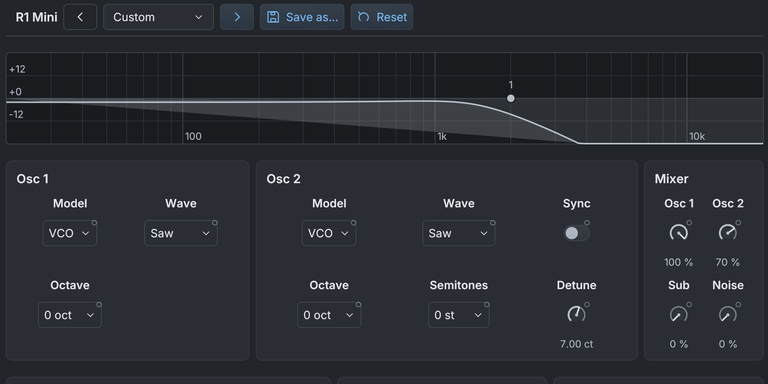
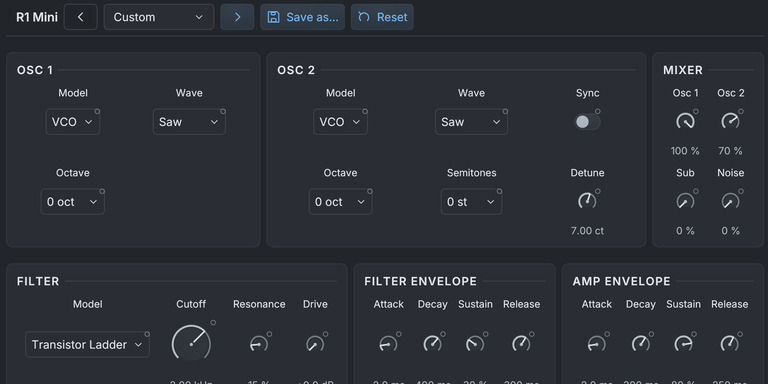
Drop the Mini's filter graph, raise the Filter's, even out dialog padding
The synth panel starts with its controls; the effect's response graph is
taller. A built-in device window is as wide as its panel plus the scroll
bar's gutter, so its right padding matches the left instead of doubling the
window margin.

Section titles and control captions now read as two levels: the shared
device_section_title sets the name in tracked capitals with a rule to the
card's edge, and control_caption names a control in smaller text. Both live
in daw-ui and the generic device_section uses the title too.

Claude-Session: https://claude.ai/code/session_01NMJbGpgEhY1BFioJy8Pb6P

diff --git a/crates/daw-ui/src/device_panel.rs b/crates/daw-ui/src/device_panel.rs
@@ -472,10 +472,59 @@ impl<'a> DevicePanel<'a> {
 pub fn device_section<R>(ui: &mut Ui, title: &str, contents: impl FnOnce(&mut Ui) -> R) -> R {
     ui.vertical(|ui| {
         ui.spacing_mut().item_spacing.y = tokens::SPACE_SM;
-        crate::text::label(ui, title);
+        device_section_title(ui, title);
         contents(ui)
     })
     .inner
+}
+
+/// The heading of a device section: its name in tracked capitals and a rule
+/// to the section's right edge. Distinct from the sentence-case
+/// [`control_caption`]s under it, so the panel's two levels never read alike.
+pub fn device_section_title(ui: &mut Ui, title: &str) -> Response {
+    let colors = crate::theme::palette(ui.ctx());
+    let mut job = egui::text::LayoutJob::default();
+    job.append(
+        &title.to_uppercase(),
+        0.0,
+        egui::TextFormat {
+            font_id: crate::text::TextRole::Label.font(),
+            color: colors.text,
+            extra_letter_spacing: 1.0,
+            ..Default::default()
+        },
+    );
+    let galley = ui.painter().layout_job(job);
+    let width = ui.available_width();
+    let (rect, response) =
+        ui.allocate_exact_size(vec2(width, galley.size().y), egui::Sense::hover());
+    let rule = rect.left() + galley.size().x + tokens::SPACE_SM;
+    ui.painter().galley(rect.left_top(), galley, colors.text);
+    if rule < rect.right() {
+        ui.painter().hline(
+            rule..=rect.right(),
+            rect.center().y,
+            egui::Stroke::new(tokens::BORDER_WIDTH, colors.line),
+        );
+    }
+    response.widget_info(|| egui::WidgetInfo::labeled(egui::WidgetType::Label, true, title));
+    response
+}
+
+/// The font of a [`control_caption`], for callers that size cells to it.
+pub fn control_caption_font() -> egui::FontId {
+    crate::text::TextRole::Note.font()
+}
+
+/// The name above one control of a device section: smaller and lighter than
+/// the section's title, in the text color so it stays readable.
+pub fn control_caption(ui: &mut Ui, text: &str) -> Response {
+    let color = crate::theme::palette(ui.ctx()).text;
+    ui.add(egui::Label::new(
+        egui::RichText::new(text)
+            .font(control_caption_font())
+            .color(color),
+    ))
 }
 
 /// How the host stores and edits parameter values for a generated panel.

diff --git a/crates/daw-devices-ui/src/lib.rs b/crates/daw-devices-ui/src/lib.rs
@@ -102,7 +102,7 @@ pub fn show(
         let weights: Vec<f32> = cards.iter().map(|card| card.weight).collect();
         daw_ui::flex_row(ui, &weights, |ui, index| {
             let card = &cards[index];
-            daw_ui::text::subtitle(ui, card.title);
+            daw_ui::device_section_title(ui, card.title);
             let available = ui.available_width();
             let lines = wrap(&card.lines, available);
             let columns = columns(&lines, available);
@@ -275,8 +275,7 @@ fn cell_width(ui: &Ui, spec: &ParamSpec, layout: &panels::Layout) -> f32 {
             .size()
             .x
     };
-    let label = daw_ui::text::TextRole::Label.font();
-    let caption = text(caption(spec, layout), label.clone());
+    let caption = text(caption(spec, layout), daw_ui::control_caption_font());
     let button = egui::TextStyle::Button.resolve(ui.style());
     let widest = |values: &mut dyn Iterator<Item = String>| {
         values
@@ -341,7 +340,7 @@ fn performance(ui: &mut Ui, host: &mut dyn DeviceHost, state: &mut PanelState) {
 
 const RESPONSE_POINTS: usize = 128;
 const RESPONSE_RANGE_DB: f32 = 24.0;
-const RESPONSE_HEIGHT: f32 = 120.0;
+const RESPONSE_HEIGHT: f32 = 160.0;
 
 /// The device's response with a node on its frequency parameter. Dragging the
 /// node is one gesture on that parameter, like turning its knob.
@@ -417,7 +416,7 @@ fn control(
         |ui| {
             // Compact horizontal padding leaves a choice's text the room of its cell.
             ui.spacing_mut().button_padding.x = daw_ui::tokens::SPACE_SM;
-            daw_ui::text::label(ui, caption(spec, layout));
+            daw_ui::control_caption(ui, caption(spec, layout));
             let offset = (height - control_height(spec, layout)) * 0.5;
             if offset > 0.0 {
                 ui.add_space(offset);

diff --git a/crates/daw-app/src/plugin_ui.rs b/crates/daw-app/src/plugin_ui.rs
@@ -1153,7 +1153,13 @@ impl DawApp {
             .default_width(if parameter_page {
                 920.0
             } else if let Some(descriptor) = builtin {
-                daw_devices_ui::panel_width(descriptor) + 2.0 * daw_ui::tokens::POPUP_MARGIN
+                // The window's own margin already surrounds its contents; the
+                // gutter keeps a scroll bar off the cards' right edge.
+                let scroll = ctx.style().spacing.scroll;
+                daw_devices_ui::panel_width(descriptor)
+                    + scroll.bar_width
+                    + scroll.bar_inner_margin
+                    + scroll.bar_outer_margin
             } else {
                 600.0
             })
@@ -1165,7 +1171,7 @@ impl DawApp {
                 1600.0
             } else if builtin.is_some() {
                 // A device panel shows its response and every control at once.
-                760.0
+                840.0
             } else {
                 400.0
             })

diff --git a/crates/daw-devices-ui/src/panels.rs b/crates/daw-devices-ui/src/panels.rs
@@ -147,12 +147,6 @@ pub fn layout(descriptor: &DeviceDescriptor) -> Layout {
         layout.hero = Some(CUTOFF);
         layout.knob = daw_ui::KnobSize::Dense;
         layout.visible = |id, values| applies(id, &mini_settings(values));
-        layout.response = Some(ResponseView {
-            curve: |values, frequencies, out| {
-                response_db(&mini_settings(values), RESPONSE_RATE, frequencies, out);
-            },
-            node: CUTOFF,
-        });
     }
     layout
 }

diff --git a/crates/daw-app/tests/mini_synth_e2e.rs b/crates/daw-app/tests/mini_synth_e2e.rs
@@ -133,7 +133,7 @@ fn new_midi_tracks_play_r1_mini_shaped_by_tools_presets_and_its_panel() {
     menu(&mut app, "Window", "Instrument");
     common::wait_visible(&mut app, "Cutoff");
     let state = app.inspect();
-    for label in ["Osc 1", "Voice", "Amp envelope", "LFO", "Mod wheel"] {
+    for label in ["OSC 1", "VOICE", "AMP ENVELOPE", "LFO", "Mod wheel"] {
         assert!(
             state["visible_labels"]
                 .as_array()

diff --git a/docs/UI.md b/docs/UI.md
@@ -1409,6 +1409,10 @@ arrow keys), and canvas handles use the 21-point `HIT_TARGET`.
 dense Mix/Output (effects) or Volume (instruments) knobs; width is
 `DevicePanelWidth::Medium` (610) or `Large` (987), and a panel never scrolls.
 `device_section` titles a group with a word and spacing instead of an outline.
+Its heading, `device_section_title`, sets the name in tracked capitals with a
+rule to the section's edge; `control_caption` names one control in smaller,
+sentence-case text, so the two levels never read alike. Built-in device cards
+use the same pair.
 `preset_browser` provides search, category and tag filters, Factory/User,
 favorites, **Save as…** and **Reset to default**. `generic_device_panel`
 builds a whole panel from `ParamRow`s (normalized values, `format`/`parse`

diff --git a/docs/R1_DEVICES.md b/docs/R1_DEVICES.md
@@ -777,7 +777,9 @@ classic subtractive layout:
   (Pitch, Cutoff, Width, Mod wheel); then Mode, Voices, Glide, Bend, Drift
   and Volume, the output, last.
 
-Knobs are dense (34 points) except the hero Cutoff. The sketch below is the
+Knobs are dense (34 points) except the hero Cutoff. Unlike the effect, the
+synth draws no filter response: the controls start right under the header.
+The sketch below is the
 original target:
 
 ```text
